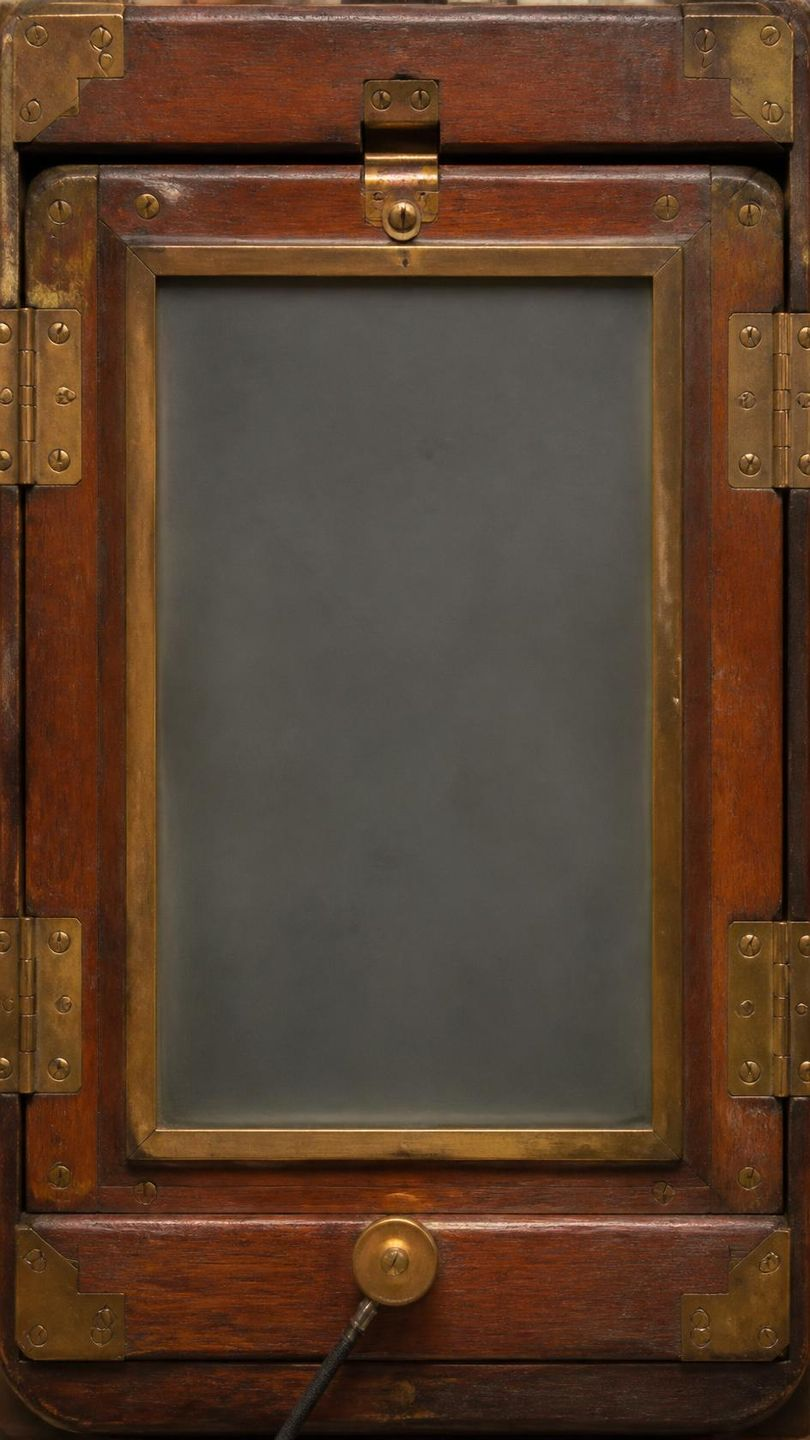
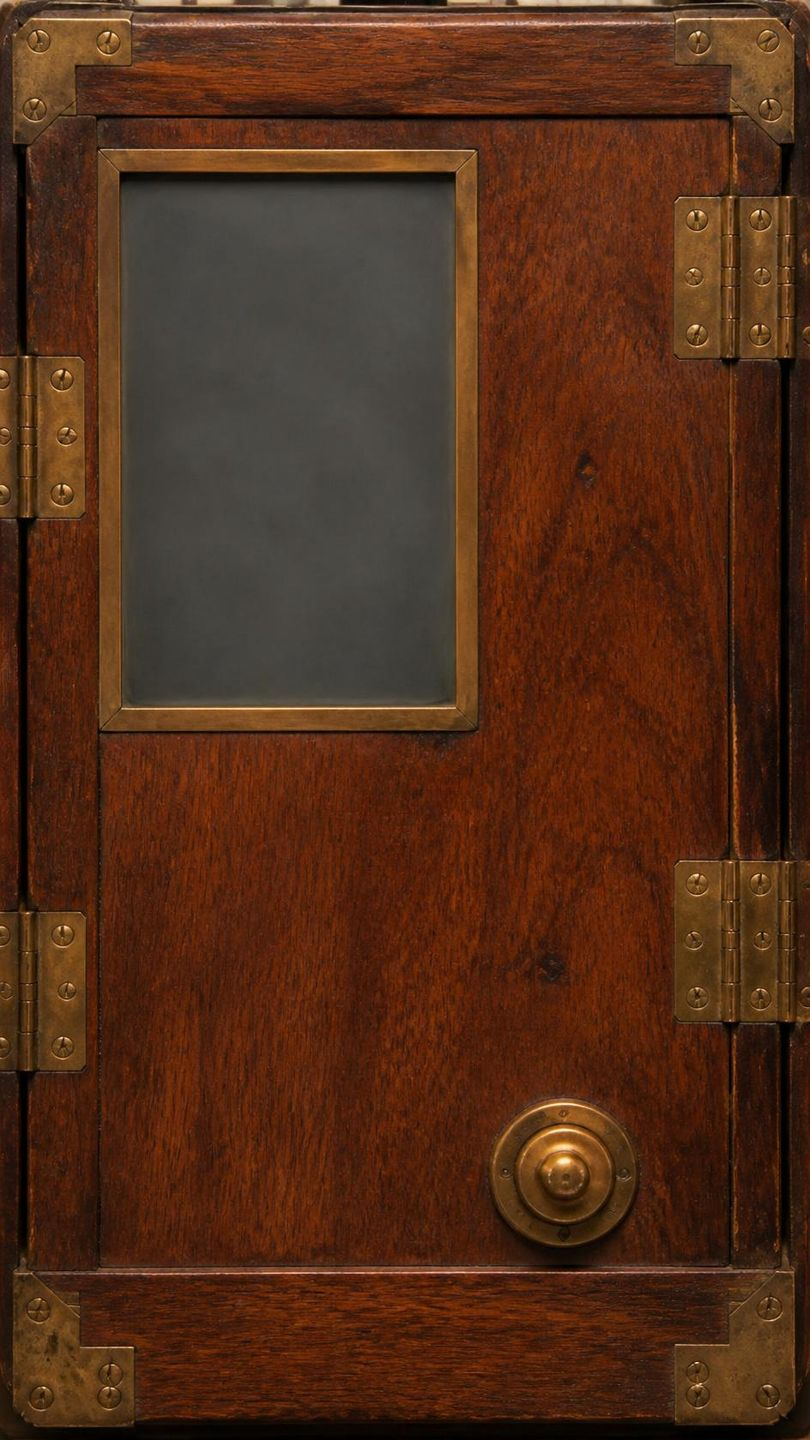
Rajastão, Agra e Delhi com os versos nítidos e visor/botão medidos na imagem
Claude-Session: https://claude.ai/code/session_019kqAkVGodtTPLnZ4JhFLF3

diff --git a/app/sw.js b/app/sw.js
@@ -1,8 +1,8 @@
-// marca: b4d4f76439
+// marca: e86f0ce006
 // Guarda o app inteiro no celular para abrir mesmo sem sinal (templo, estrada, wi-fi fraco do hotel).
 const CACHE = "caravana-v6", EXTRA = "caravana-ext", MAPA = "caravana-mapa";
 // lista de arquivos gerada pelo tools/gerar-site.py
-const ARQUIVOS = /*ARQUIVOS*/["index.html", "shim.js", "config.js", "manifest.webmanifest", "dados/geo.json", "dados/saberes/dharma.json", "dados/saberes/ganesha.json", "dados/saberes/kali.json", "dados/saberes/krishna.json", "dados/saberes/lakshmi.json", "dados/saberes/sarasvati.json", "dados/travessia.json", "deuses/brahma.webp", "deuses/durga.webp", "deuses/ganesha.webp", "deuses/ganga.webp", "deuses/hanuman.webp", "deuses/kali.webp", "deuses/krishna.webp", "deuses/lakshmi.webp", "deuses/parvati.webp", "deuses/saraswati.webp", "deuses/shiva.webp", "deuses/surya.webp", "deuses/vishnu.webp", "img/abertura-agra.webp", "img/abertura-delhi.webp", "img/abertura-jaipur.webp", "img/abertura-rishikesh.webp", "img/abertura-varanasi.webp", "img/cameras/campo-corpo.jpg", "img/cameras/campo.png", "img/cameras/celular-estante.png", "img/cameras/celular.png", "img/cameras/couro.png", "img/cameras/descartavel-corpo.jpg", "img/cameras/descartavel-estante.png", "img/cameras/descartavel.png", "img/cameras/estante.jpg", "img/cameras/etiqueta1.png", "img/cameras/etiqueta2.png", "img/cameras/etiqueta3.png", "img/cameras/instantanea-corpo.jpg", "img/cameras/instantanea-estante.png", "img/cameras/instantanea.png", "img/cameras/mala-cheia.jpg", "img/cameras/mala-oito.jpg", "img/cameras/mala.jpg", "img/cameras/quatro-corpo.jpg", "img/cameras/quatro-estante.png", "img/cameras/quatro.png", "img/cameras/rajastao-corpo.jpg", "img/cameras/rajastao-estante.png", "img/cameras/rajastao.png", "img/cameras/super8-corpo.jpg", "img/cameras/super8-estante.png", "img/cameras/super8.png", "img/caravana-marrom.png", "img/cristal.jpg", "img/emblema.jpg", "img/fundo.webp", "img/icone-192.png", "img/icone-512.png", "img/lacre.webp", "img/letreiro.png", "img/lockup-claro.png", "img/logo.png", "img/mantra-ganesha.webp", "img/mantra-vasudeva.webp", "img/papiro.webp", "img/passaporte-capa.webp", "img/passaporte.webp", "img/pedra.webp", "img/simbolo-claro.png", "img/simbolo-dourado.png", "img/simbolo-marrom.png", "img/simbolo.png", "img/tenda.webp", "img/textura.jpg", "insignias/batismo.webp", "insignias/beatles-ashram.webp", "insignias/caverna.webp", "insignias/diwali.webp", "insignias/durga-kund.webp", "insignias/galta-ji.webp", "insignias/ganesha.webp", "insignias/ganga-aarti.webp", "insignias/govind-dev-ji.webp", "insignias/india.webp", "insignias/jaipur.webp", "insignias/kunjapuri.webp", "insignias/manikarnika.webp", "insignias/rishikesh.webp", "insignias/sankat-mochan.webp", "insignias/taj-mahal.webp", "insignias/travessia.webp", "insignias/varanasi.webp"]/*FIM*/;
+const ARQUIVOS = /*ARQUIVOS*/["index.html", "shim.js", "config.js", "manifest.webmanifest", "dados/geo.json", "dados/saberes/dharma.json", "dados/saberes/ganesha.json", "dados/saberes/kali.json", "dados/saberes/krishna.json", "dados/saberes/lakshmi.json", "dados/saberes/sarasvati.json", "dados/travessia.json", "deuses/brahma.webp", "deuses/durga.webp", "deuses/ganesha.webp", "deuses/ganga.webp", "deuses/hanuman.webp", "deuses/kali.webp", "deuses/krishna.webp", "deuses/lakshmi.webp", "deuses/parvati.webp", "deuses/saraswati.webp", "deuses/shiva.webp", "deuses/surya.webp", "deuses/vishnu.webp", "img/abertura-agra.webp", "img/abertura-delhi.webp", "img/abertura-jaipur.webp", "img/abertura-rishikesh.webp", "img/abertura-varanasi.webp", "img/cameras/campo-corpo.jpg", "img/cameras/campo.png", "img/cameras/celular-estante.png", "img/cameras/celular.png", "img/cameras/couro-corpo.jpg", "img/cameras/couro.png", "img/cameras/descartavel-corpo.jpg", "img/cameras/descartavel-estante.png", "img/cameras/descartavel.png", "img/cameras/estante.jpg", "img/cameras/etiqueta1.png", "img/cameras/etiqueta2.png", "img/cameras/etiqueta3.png", "img/cameras/instantanea-corpo.jpg", "img/cameras/instantanea-estante.png", "img/cameras/instantanea.png", "img/cameras/mala-cheia.jpg", "img/cameras/mala-oito.jpg", "img/cameras/mala.jpg", "img/cameras/quatro-corpo.jpg", "img/cameras/quatro-estante.png", "img/cameras/quatro.png", "img/cameras/rajastao-corpo.jpg", "img/cameras/rajastao-estante.png", "img/cameras/rajastao.png", "img/cameras/super8-corpo.jpg", "img/cameras/super8-estante.png", "img/cameras/super8.png", "img/caravana-marrom.png", "img/cristal.jpg", "img/emblema.jpg", "img/fundo.webp", "img/icone-192.png", "img/icone-512.png", "img/lacre.webp", "img/letreiro.png", "img/lockup-claro.png", "img/logo.png", "img/mantra-ganesha.webp", "img/mantra-vasudeva.webp", "img/papiro.webp", "img/passaporte-capa.webp", "img/passaporte.webp", "img/pedra.webp", "img/simbolo-claro.png", "img/simbolo-dourado.png", "img/simbolo-marrom.png", "img/simbolo.png", "img/tenda.webp", "img/textura.jpg", "insignias/batismo.webp", "insignias/beatles-ashram.webp", "insignias/caverna.webp", "insignias/diwali.webp", "insignias/durga-kund.webp", "insignias/galta-ji.webp", "insignias/ganesha.webp", "insignias/ganga-aarti.webp", "insignias/govind-dev-ji.webp", "insignias/india.webp", "insignias/jaipur.webp", "insignias/kunjapuri.webp", "insignias/manikarnika.webp", "insignias/rishikesh.webp", "insignias/sankat-mochan.webp", "insignias/taj-mahal.webp", "insignias/travessia.webp", "insignias/varanasi.webp"]/*FIM*/;
 self.addEventListener("install", e => {
   // guarda um por um: se algum falhar, os outros ficam guardados do mesmo jeito
   e.waitUntil(caches.open(CACHE).then(c => Promise.allSettled(["./", ...ARQUIVOS].map(a => c.add(new Request(a, { cache: "reload" }))))));

diff --git a/app/index.html b/app/index.html
@@ -7,7 +7,7 @@
 <link rel="icon" href="img/icone-192.png">
 <link rel="apple-touch-icon" href="img/icone-192.png">
 <link rel="manifest" href="manifest.webmanifest">
-<script>window.__VERSAO = "10/10 · 10:33";</script>
+<script>window.__VERSAO = "10/10 · 10:36";</script>
 <script src="config.js"></script>
 <script src="shim.js"></script>
 <style>*,*::before,*::after{box-sizing:border-box}html,body{margin:0;height:100%}</style>
@@ -4966,14 +4966,14 @@ const CAMERAS_C = [
 // fotos realistas (quando estiverem na pasta img/cameras): corpo de perto com o visor, câmera inteira recortada e a estante
 const FOTO_CAM = {
   // visor: a janela grande onde a imagem ao vivo aparece inteira (no formato da foto que vai sair); botao: o disparador da própria câmera
-  rajastao: { visor: [.223, .191, .75, .764], botao: [.502, .879, .085], selfie: [.84, .88] },
+  rajastao: { visor: [.224, .19, .761, .77], botao: [.498, .875, .08], selfie: [.84, .88] },
   descartavel: { visor: [.705, .385, .915, .565], botao: [.350, .493, .13], selfie: [.82, .8] },
   instantanea: { visor: [.32, .21, .68, .44], botao: [.503, .699, .11], selfie: [.8, .86] },
   super8: { visor: [.2, .105, .795, .365], botao: [.498, .601, .09], selfie: [.8, .76] },
   quatro: { visor: [.255, .31, .73, .625], botao: [.512, .786, .09], selfie: [.8, .88], luzes: [.356, .433, .512, .589].map(y => [.146, y]) },
   // a de madeira mostra a imagem de cabeça para baixo no vidro fosco, como as câmeras de campo de verdade
-  campo: { visor: [.152, .126, .545, .477], botao: [.692, .817, .089], selfie: [.24, .78] },
-  couro: { visor: [.598, .216, .795, .497], botao: [.237, .879, .1], selfie: [.7, .7], inteira: 1 },
+  campo: { visor: [.15, .127, .559, .489], botao: [.694, .815, .09], selfie: [.24, .78] },
+  couro: { visor: [.593, .214, .802, .506], botao: [.242, .868, .11], selfie: [.7, .7], inteira: 1 },
 };
 // compartimentos da mala (fração da imagem): 3 colunas × 2 fileiras
 const MALA_CASAS = [[.155, .41, .35, .545], [.39, .41, .605, .545], [.635, .41, .86, .545], [.135, .575, .345, .725], [.38, .575, .62, .725], [.645, .575, .88, .725]];

diff --git a/app/caravana-do-ceu.html b/app/caravana-do-ceu.html
@@ -4952,14 +4952,14 @@ const CAMERAS_C = [
 // fotos realistas (quando estiverem na pasta img/cameras): corpo de perto com o visor, câmera inteira recortada e a estante
 const FOTO_CAM = {
   // visor: a janela grande onde a imagem ao vivo aparece inteira (no formato da foto que vai sair); botao: o disparador da própria câmera
-  rajastao: { visor: [.223, .191, .75, .764], botao: [.502, .879, .085], selfie: [.84, .88] },
+  rajastao: { visor: [.224, .19, .761, .77], botao: [.498, .875, .08], selfie: [.84, .88] },
   descartavel: { visor: [.705, .385, .915, .565], botao: [.350, .493, .13], selfie: [.82, .8] },
   instantanea: { visor: [.32, .21, .68, .44], botao: [.503, .699, .11], selfie: [.8, .86] },
   super8: { visor: [.2, .105, .795, .365], botao: [.498, .601, .09], selfie: [.8, .76] },
   quatro: { visor: [.255, .31, .73, .625], botao: [.512, .786, .09], selfie: [.8, .88], luzes: [.356, .433, .512, .589].map(y => [.146, y]) },
   // a de madeira mostra a imagem de cabeça para baixo no vidro fosco, como as câmeras de campo de verdade
-  campo: { visor: [.152, .126, .545, .477], botao: [.692, .817, .089], selfie: [.24, .78] },
-  couro: { visor: [.598, .216, .795, .497], botao: [.237, .879, .1], selfie: [.7, .7], inteira: 1 },
+  campo: { visor: [.15, .127, .559, .489], botao: [.694, .815, .09], selfie: [.24, .78] },
+  couro: { visor: [.593, .214, .802, .506], botao: [.242, .868, .11], selfie: [.7, .7], inteira: 1 },
 };
 // compartimentos da mala (fração da imagem): 3 colunas × 2 fileiras
 const MALA_CASAS = [[.155, .41, .35, .545], [.39, .41, .605, .545], [.635, .41, .86, .545], [.135, .575, .345, .725], [.38, .575, .62, .725], [.645, .575, .88, .725]];
